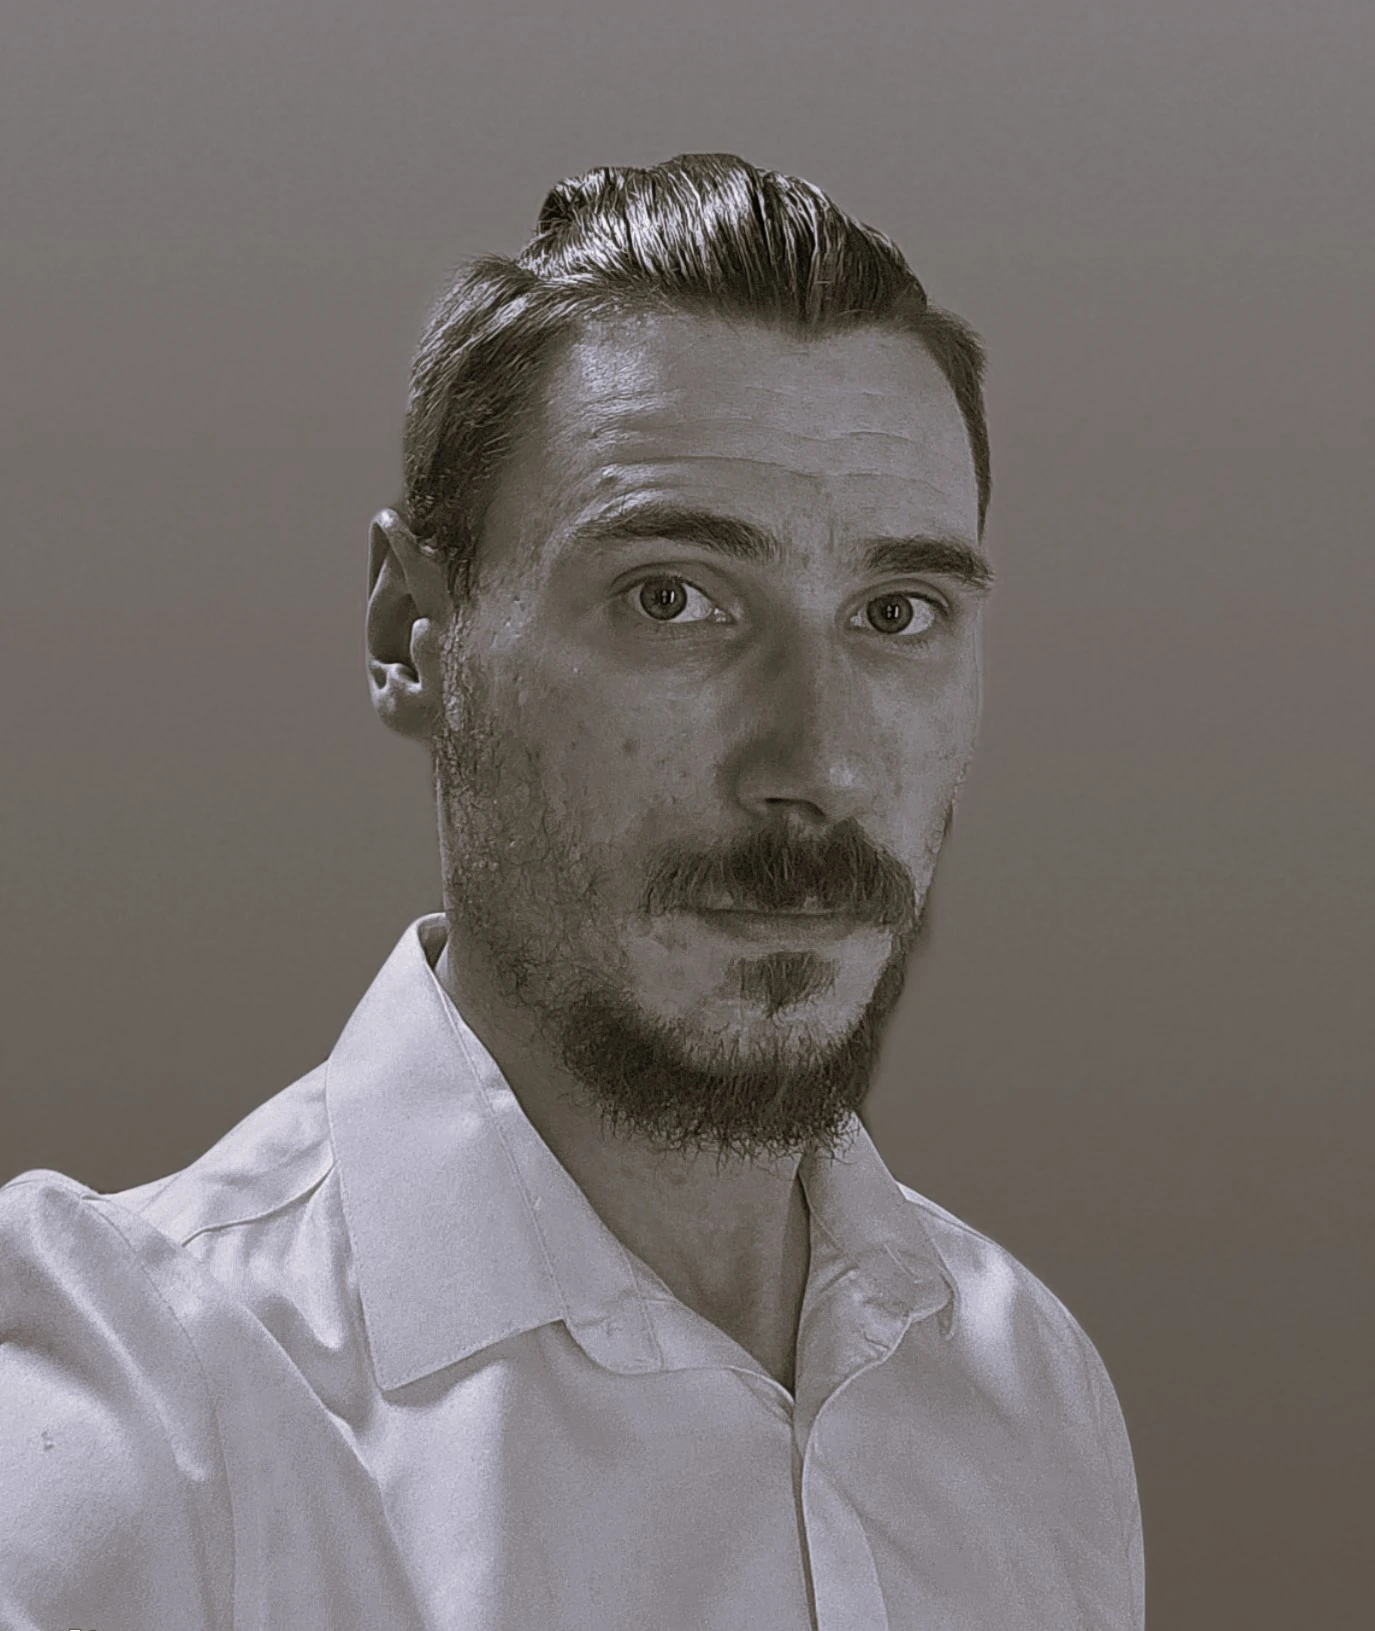
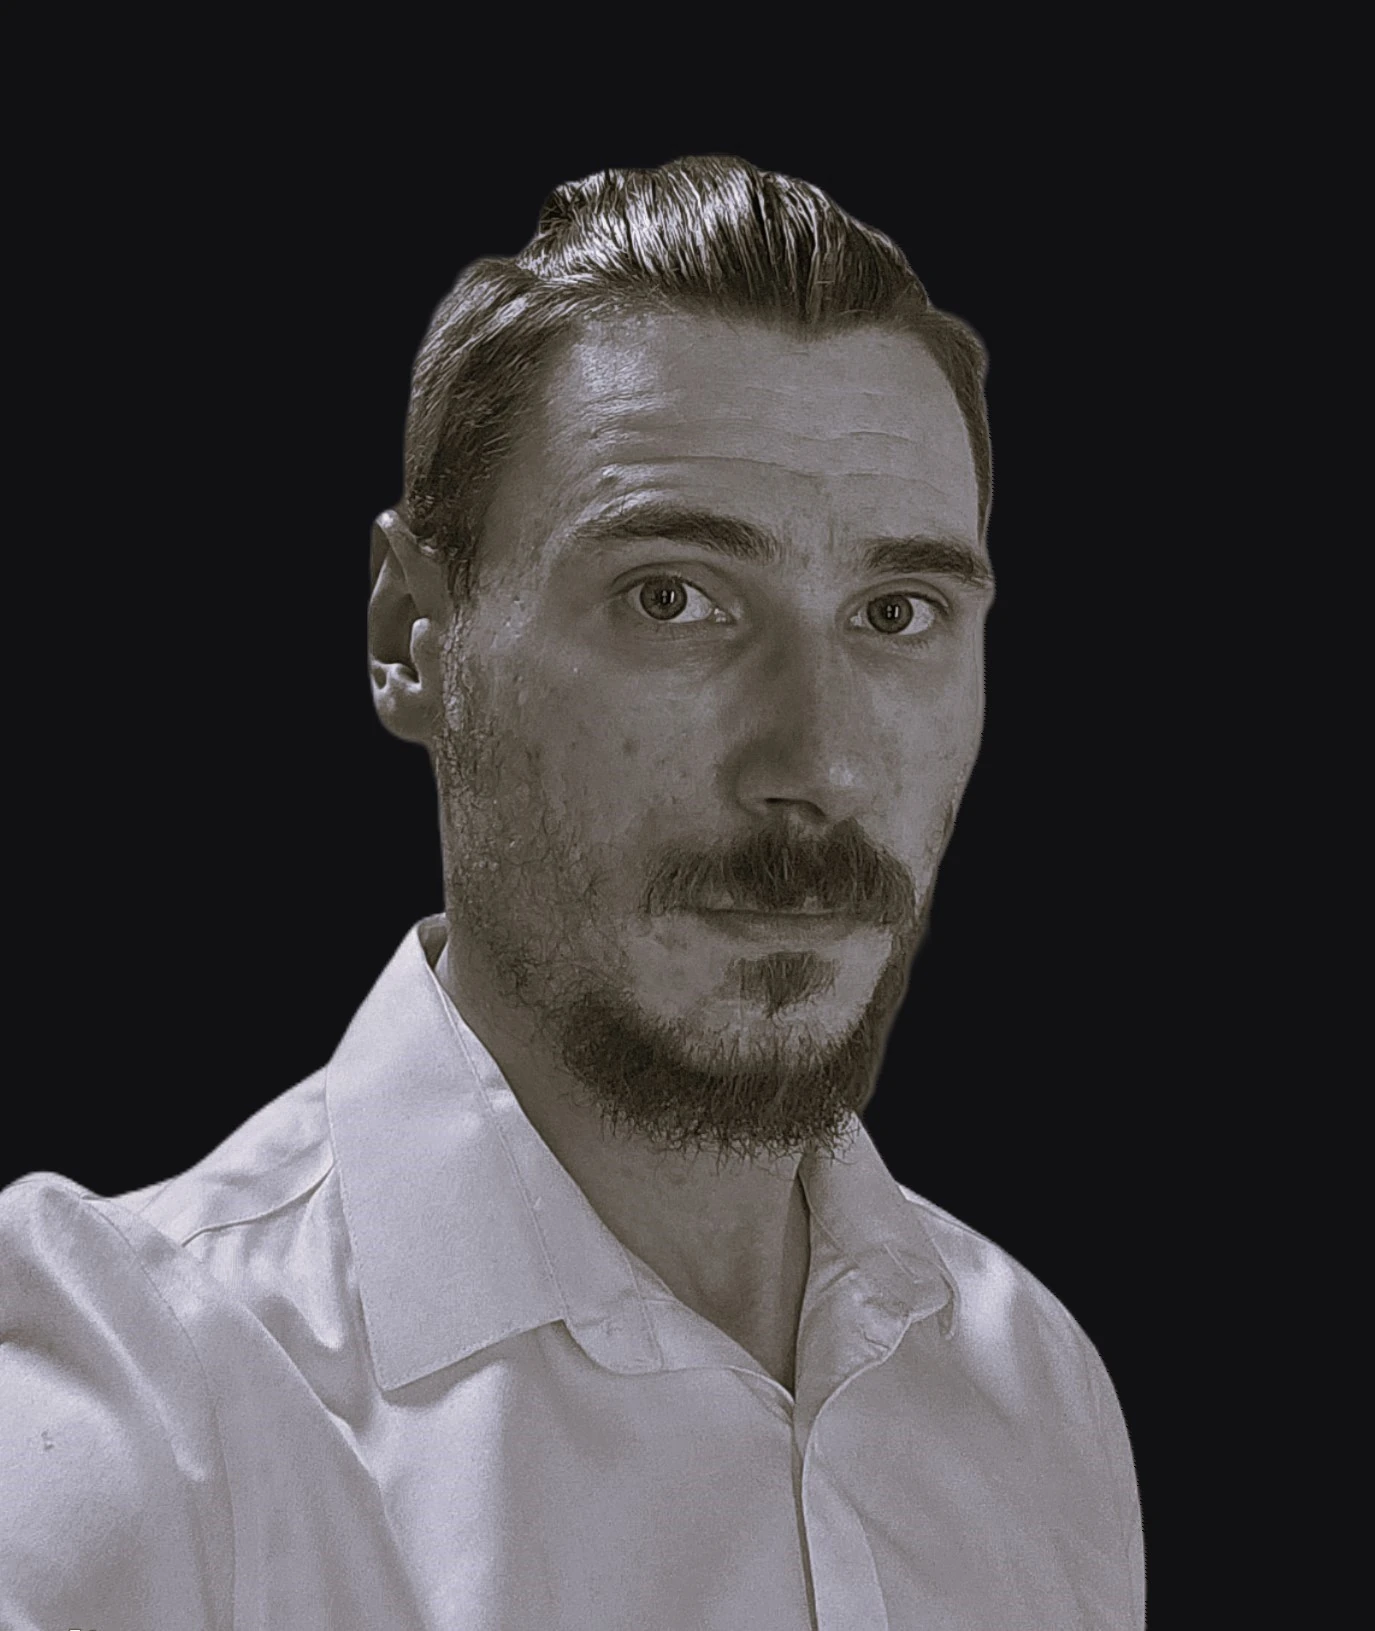
Changement image, dimensions

diff --git a/src/style/banniere/banniere.min.css b/src/style/banniere/banniere.min.css
@@ -1,1 +1,1 @@
-html.dark .banniere{display:flex;background-color:#111927}html.dark .banniere__conteneur__image{border-color:#104d87;box-shadow:none}html.dark .banniere__conteneur__lien a{border-color:#104d87;color:#fff}html.dark .banniere__conteneur__lien a span{color:#fff}html.dark .banniere__conteneur__lien a:hover{background-color:#3b9eff;border-color:#2870bd;box-shadow:none}.banniere{display:flex;background-color:#f4faff}.banniere__conteneur{width:100%;height:900px;margin-top:50px;padding-top:20px;display:flex;align-items:center;justify-content:space-around;flex-direction:row-reverse}@media screen and (min-width: 769px)and (max-width: 1250px){.banniere__conteneur{flex-direction:column;justify-content:space-evenly;align-items:center;margin:auto}}@media screen and (max-width: 768px){.banniere__conteneur{height:700px;flex-direction:column;justify-content:center;gap:50px;align-items:center;margin:auto;text-align:center}}.banniere__conteneur h1{margin-top:0;font-size:4em}@media screen and (min-width: 769px)and (max-width: 1250px){.banniere__conteneur h1{font-size:3em}}@media screen and (max-width: 768px){.banniere__conteneur h1{font-size:2em}}.banniere__conteneur__image{border-radius:100%;border:#acd8fc 2px solid;box-shadow:1px 10px 11px -7px rgba(0,0,0,.64);height:400px;width:400px}@media screen and (min-width: 769px)and (max-width: 1250px){.banniere__conteneur__image{height:300px;width:300px}}@media screen and (max-width: 768px){.banniere__conteneur__image{height:200px;width:200px}}.banniere__conteneur p{font-size:1.3em}@media screen and (min-width: 769px)and (max-width: 1250px){.banniere__conteneur p{font-size:1.2em;width:100%}}@media screen and (max-width: 768px){.banniere__conteneur p{font-size:1em;margin:auto}}.banniere__conteneur__lien{margin-top:50px;display:flex;gap:20px}@media screen and (max-width: 768px){.banniere__conteneur__lien{justify-content:center;gap:10px}}.banniere__conteneur__lien a{padding:5px 15px;background-color:#0090ff;border-radius:25px;display:flex;align-items:center;gap:15px;text-decoration:none;border:1px solid #acd8fc;color:#fff;transition:all 200ms;font-size:1.2em}@media screen and (min-width: 769px)and (max-width: 1250px){.banniere__conteneur__lien a{font-size:1em}}@media screen and (max-width: 768px){.banniere__conteneur__lien a{font-size:.6em;gap:5px}}.banniere__conteneur__lien a span{color:#fff}.banniere__conteneur__lien a:hover{background-color:#0588f0;border:1px solid #5eb1ef;box-shadow:1px 10px 11px -7px rgba(0,0,0,.404)}.banniere__conteneur__lien svg{height:30px}@media screen and (min-width: 769px)and (max-width: 1250px){.banniere__conteneur__lien svg{height:20px}}@media screen and (max-width: 768px){.banniere__conteneur__lien svg{height:15px}}
+html.dark .banniere{display:flex;background-color:#111927}html.dark .banniere__conteneur__image{border-color:#104d87;box-shadow:none}html.dark .banniere__conteneur__lien a{border-color:#104d87;color:#fff}html.dark .banniere__conteneur__lien a span{color:#fff}html.dark .banniere__conteneur__lien a:hover{background-color:#3b9eff;border-color:#2870bd;box-shadow:none}.banniere{display:flex;background-color:#f4faff}.banniere__conteneur{width:100%;height:900px;margin-top:50px;padding-top:20px;display:flex;align-items:center;justify-content:space-around;flex-direction:row-reverse}@media screen and (min-width: 769px)and (max-width: 1250px){.banniere__conteneur{flex-direction:column;justify-content:space-evenly;align-items:center;margin:auto}}@media screen and (max-width: 768px){.banniere__conteneur{height:700px;flex-direction:column;justify-content:center;gap:50px;align-items:center;margin:auto;text-align:center}}.banniere__conteneur h1{margin-top:0;font-size:4em}@media screen and (min-width: 769px)and (max-width: 1250px){.banniere__conteneur h1{font-size:3em}}@media screen and (max-width: 768px){.banniere__conteneur h1{font-size:2em}}.banniere__conteneur__image{border-radius:100%;border:#acd8fc 2px solid;box-shadow:1px 10px 11px -7px rgba(0,0,0,.64);height:40%;width:21.5%}@media screen and (min-width: 769px)and (max-width: 1250px){.banniere__conteneur__image{height:300px;width:300px}}@media screen and (max-width: 768px){.banniere__conteneur__image{height:200px;width:200px}}.banniere__conteneur p{font-size:1.3em}@media screen and (min-width: 769px)and (max-width: 1250px){.banniere__conteneur p{font-size:1.2em;width:100%}}@media screen and (max-width: 768px){.banniere__conteneur p{font-size:1em;margin:auto}}.banniere__conteneur__lien{margin-top:50px;display:flex;gap:20px}@media screen and (max-width: 768px){.banniere__conteneur__lien{justify-content:center;gap:10px}}.banniere__conteneur__lien a{padding:5px 15px;background-color:#0090ff;border-radius:25px;display:flex;align-items:center;gap:15px;text-decoration:none;border:1px solid #acd8fc;color:#fff;transition:all 200ms;font-size:1.2em}@media screen and (min-width: 769px)and (max-width: 1250px){.banniere__conteneur__lien a{font-size:1em}}@media screen and (max-width: 768px){.banniere__conteneur__lien a{font-size:.6em;gap:5px}}.banniere__conteneur__lien a span{color:#fff}.banniere__conteneur__lien a:hover{background-color:#0588f0;border:1px solid #5eb1ef;box-shadow:1px 10px 11px -7px rgba(0,0,0,.404)}.banniere__conteneur__lien svg{height:30px}@media screen and (min-width: 769px)and (max-width: 1250px){.banniere__conteneur__lien svg{height:20px}}@media screen and (max-width: 768px){.banniere__conteneur__lien svg{height:15px}}

diff --git a/src/style/banniere/banniere.css b/src/style/banniere/banniere.css
@@ -70,8 +70,8 @@ html.dark .banniere__conteneur__lien a:hover {
   border-radius: 100%;
   border: #ACD8FC 2px solid;
   box-shadow: 1px 10px 11px -7px rgba(0, 0, 0, 0.64);
-  height: 400px;
-  width: 400px;
+  height: 40%;
+  width: 21.5%;
 }
 @media screen and (min-width: 769px) and (max-width: 1250px) {
   .banniere__conteneur__image {

diff --git a/src/style/banniere/banniere.scss b/src/style/banniere/banniere.scss
@@ -73,8 +73,8 @@ html.dark {
 			border: $borderColor 2px solid;
 			-webkit-box-shadow: 1px 21px 11px -7px rgba(0, 0, 0, 0.64);
 			box-shadow: 1px 10px 11px -7px rgba(0, 0, 0, 0.64);
-			height: 400px;
-			width: 400px;
+			height: 40%;
+			width: 21.5%;
 			@include tablet {
 				height: 300px;
 				width: 300px;
